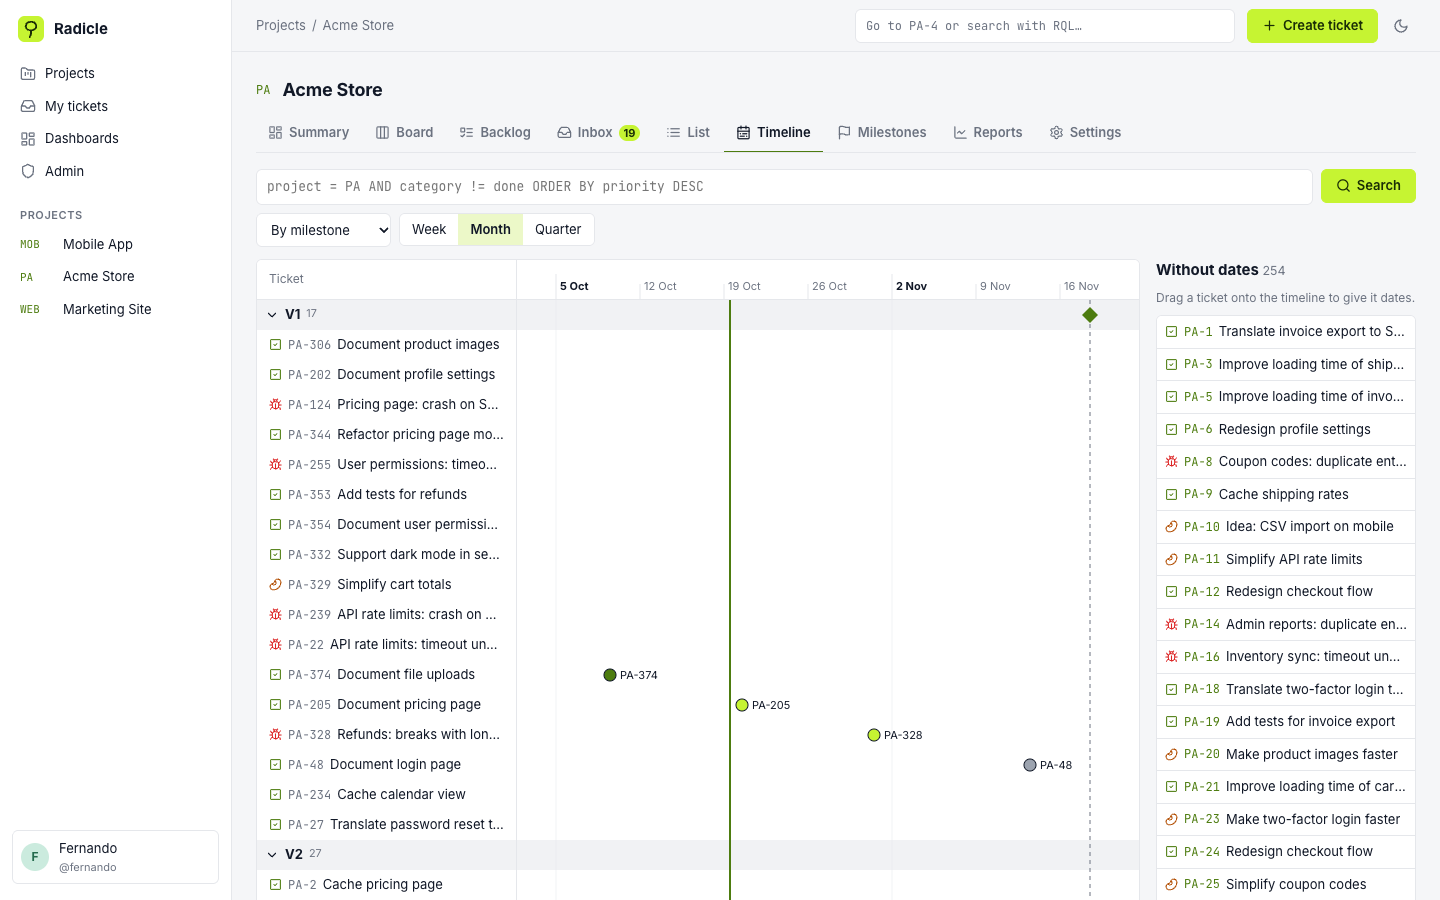
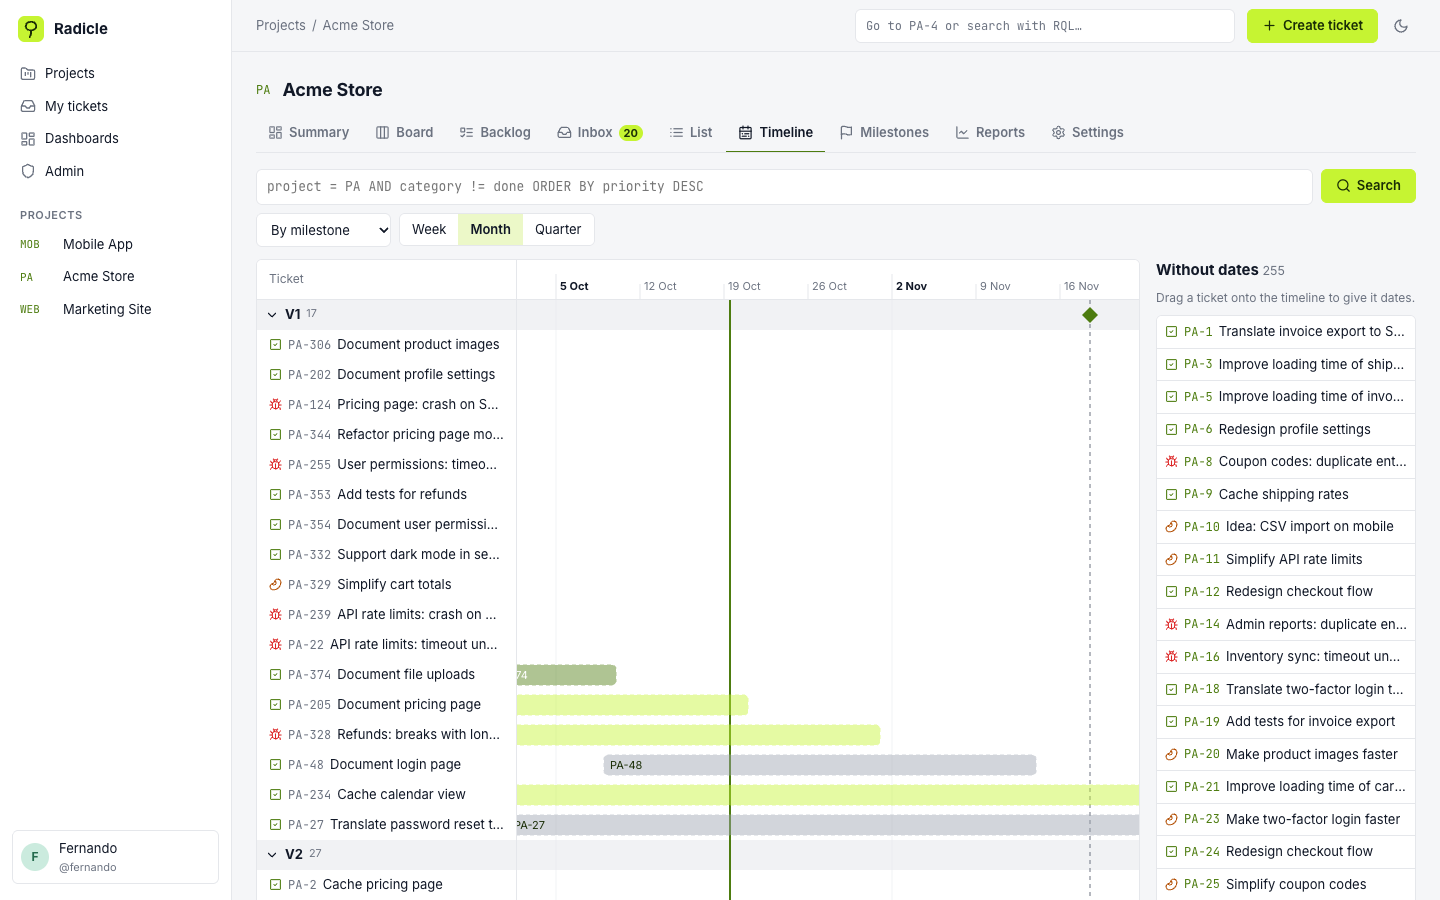
docs(readme): agents with MCP permissions, timeline bars and recent fixes
Claude-Session: https://claude.ai/code/session_01DPCWA8gVL5RgMLbBwvbCQz

Changed region(s): [[0.3438, 0.7156, 0.8125, 0.9333], [0.5938, 0.1244, 0.7812, 0.1556], [0.4375, 0.1244, 0.5625, 0.1556]]

diff --git a/README.es.md b/README.es.md
@@ -156,7 +156,7 @@ Crea un board de tipo **Scrum** para planear en sprints. Luego, en **Backlog**:
 
 ### 7. Timeline
 
-**Timeline** dibuja los tickets en el tiempo, agrupados por milestone o área, por semana, mes o trimestre. Arrastra una barra para cambiar sus fechas, o un ticket de **Without dates** para dárselas. Las dependencias imposibles (un ticket que empieza antes de que termine lo que lo bloquea) se ponen en rojo, y los milestones muestran su pronóstico.
+**Timeline** dibuja los tickets en el tiempo, agrupados por milestone o área, por semana, mes o trimestre. Arrastra una barra para cambiar sus fechas, o un ticket de **Without dates** para dárselas. Un ticket con solo fecha límite se dibuja con una barra tenue desde el día en que se creó (uno con solo fecha de inicio, con una barra tenue tan larga como su estimado) hasta que tenga ambas fechas. Las dependencias imposibles (un ticket que empieza antes de que termine lo que lo bloquea) se ponen en rojo, y los milestones muestran su pronóstico.
 
 <p align="center"><img src="docs/images/timeline.png" alt="Timeline" width="820"></p>
 
@@ -231,11 +231,14 @@ El log es **de solo inserción**: la base de datos rechaza cambios y borrados. L
 
 Los agentes son usuarios de tipo *agent*, con su propio handle, tokens, historial y permisos.
 
-1. Ve a **Admin → Agents → New agent** y copia el token (`rdc_...`). Se muestra una sola vez, junto con los snippets de MCP listos para pegar.
-2. Agrégalo a un proyecto en **Settings → Members**, normalmente como **Member**.
-3. Conecta tu cliente MCP.
+1. Ve a **Admin → Users → New user**, elige **Agent (LLM or worker)** y copia el token (`rdc_...`). Se muestra una sola vez, junto con los snippets de MCP listos para pegar. (**Admin → Agents → New agent** hace lo mismo.)
+2. Elige qué puede hacer por MCP: deja **All tools**, elige **Read only** o marca las tools exactas; por ejemplo, un bot de triage que solo lee y califica el Buzón.
+3. Agrégalo a un proyecto en **Settings → Members**, normalmente como **Member**.
+4. Conecta tu cliente MCP.
 
-<p align="center"><img src="docs/images/agents.png" alt="Agentes" width="820"></p>
+<p align="center"><img src="docs/images/agent-mcp-permissions.png" alt="Permisos de MCP de un agente" width="820"></p>
+
+Puedes cambiar las tools de un agente cuando quieras con **MCP permissions** en Users o Agents. Las que están apagadas desaparecen de su lista de tools y se rechazan si las llama. Se suman a los permisos del proyecto y a los niveles de seguridad, nunca los reemplazan. Cada cambio queda en el audit log.
 
 **Claude Code**
 
@@ -260,7 +263,7 @@ claude mcp add --transport http radicle http://localhost:8000/mcp \
 
 Los clientes que solo hablan stdio pueden usar [`mcp-remote`](https://www.npmjs.com/package/mcp-remote) como puente: `npx -y mcp-remote http://localhost:8000/mcp --header "Authorization: Bearer rdc_xxxxxxxx"`.
 
-Hay 48 tools, agrupadas en contexto, búsqueda de trabajo, tickets, colaboración, archivos y tiempo, planeación y Buzón. La lista completa está en el [README en inglés](README.md#13-ai-agents-over-mcp). Los agentes siguen la misma matriz de permisos y los mismos niveles de seguridad que las personas.
+Hay 48 tools, agrupadas en contexto, búsqueda de trabajo, tickets, colaboración, archivos y tiempo, planeación y Buzón. La lista completa está en el [README en inglés](README.md#13-ai-agents-over-mcp). Los agentes siguen la misma matriz de permisos y los mismos niveles de seguridad que las personas, y se pueden limitar a algunas tools.
 
 ### 14. Teclado, paleta de comandos y temas
 

diff --git a/README.md b/README.md
@@ -169,7 +169,7 @@ Create a board of kind **Scrum** to plan in sprints. Then, in **Backlog**:
 
 ### 7. Timeline
 
-**Timeline** draws tickets over time, grouped by milestone or area, by week, month or quarter. Drag a bar to change its dates, or drag a ticket from **Without dates** onto the timeline to give it some. Impossible dependencies (a ticket that starts before what blocks it ends) turn red, and milestones show their forecast.
+**Timeline** draws tickets over time, grouped by milestone or area, by week, month or quarter. Drag a bar to change its dates, or drag a ticket from **Without dates** onto the timeline to give it some. A ticket with only a due date gets a faded bar from the day it was created (one with only a start date, a faded bar as long as its estimate) until you set both dates. Impossible dependencies (a ticket that starts before what blocks it ends) turn red, and milestones show their forecast.
 
 <p align="center"><img src="docs/images/timeline.png" alt="Timeline" width="820"></p>
 
@@ -244,11 +244,14 @@ The log is **append-only**: the database itself rejects updates and deletes. Ent
 
 Agents are users of kind *agent*, with their own handle, tokens, history and permissions.
 
-1. Go to **Admin → Agents → New agent** and copy the token (`rdc_...`). It is shown only once, together with ready-to-paste MCP snippets.
-2. Add the agent to a project in **Settings → Members**, usually as **Member**.
-3. Connect your MCP client.
+1. Go to **Admin → Users → New user**, choose **Agent (LLM or worker)** and copy the token (`rdc_...`). It is shown only once, together with ready-to-paste MCP snippets. (**Admin → Agents → New agent** does the same.)
+2. Choose what it may do over MCP. Leave **All tools** on, pick **Read only**, or tick the exact tools: for example, a triage bot that can only read and score the Inbox.
+3. Add the agent to a project in **Settings → Members**, usually as **Member**.
+4. Connect your MCP client.
 
-<p align="center"><img src="docs/images/agents.png" alt="Agents" width="820"></p>
+<p align="center"><img src="docs/images/agent-mcp-permissions.png" alt="MCP permissions of an agent" width="820"></p>
+
+You can change an agent's tools any time with **MCP permissions** in Users or Agents. Tools that are off disappear from the agent's tool list and are refused if called. They add to the project permissions and security levels; they never replace them. Every change is recorded in the audit log.
 
 **Claude Code**
 
@@ -286,7 +289,7 @@ Clients that only speak stdio can use [`mcp-remote`](https://www.npmjs.com/packa
 | Planning | `list_boards`, `get_board`, `list_sprints`, `get_sprint`, `add_to_sprint`, `remove_from_sprint`, `start_sprint`, `complete_sprint`, `get_milestone_progress`, `get_report` |
 | Inbox | `list_inbox`, `score_inbox_item`, `approve_inbox_item`, `discard_inbox_item`, `mark_inbox_duplicate` |
 
-Resources: `radicle://guide/rql` and `radicle://projects/{key}/schema`. Agents follow the same permission matrix and security levels as people.
+Resources: `radicle://guide/rql` and `radicle://projects/{key}/schema`. Agents follow the same permission matrix and security levels as people, and can be limited to some of these tools. `GET /api/v1/mcp/tools` lists them with their group and whether they only read.
 
 </details>
 

diff --git a/CHANGELOG.md b/CHANGELOG.md
@@ -11,10 +11,15 @@ Formato basado en [Keep a Changelog](https://keepachangelog.com/es-ES/1.1.0/).
 
 ### Fixed
 
+- My tickets y List: el encabezado de la tabla ya no se desfasa de las filas.
+- Boards: un ticket en In Review o QA Verified se puede regresar al primer estado (nuevas transiciones *Back to To Do*, *Back to Reported* y *Back to New* en el template default y sus proyectos ligados), y soltar una tarjeta rápido ya no se ignora.
+- Timeline: los tickets con una sola fecha se dibujan como barra, no como punto.
+- CI: versión de pnpm, llave secreta para exportar el OpenAPI y conteo de archivos generados en `PR size`.
 - La gráfica de barras horizontal (Open by area) mostraba solo una etiqueta de cada dos.
 
 ### Added
 
+- Agentes: crear un agente (LLM o worker) desde Users y elegir con checks qué tools del MCP puede usar; el servidor MCP esconde y rechaza las demás. `GET /api/v1/mcp/tools` describe el catálogo.
 - README en inglés con guía de cada función, screenshots y diagramas; `README.es.md`; `CONTRIBUTING.md`; plantillas de PR e issues; check `PR size` (rama `tipo/descripcion`, menos de 500 líneas y 100 archivos).
 - 1.1: base del monorepo, Docker Compose, CI, setup inicial, login con sesión y CSRF, usuarios, agentes, tokens personales y de agente, errores RFC 9457, pantalla de estado con tema lima e idiomas inglés y español.
 - 1.2: proyectos con key, workflows default sembrados, miembros con rol, áreas y milestones, permisos por rol con 404 para no miembros.
